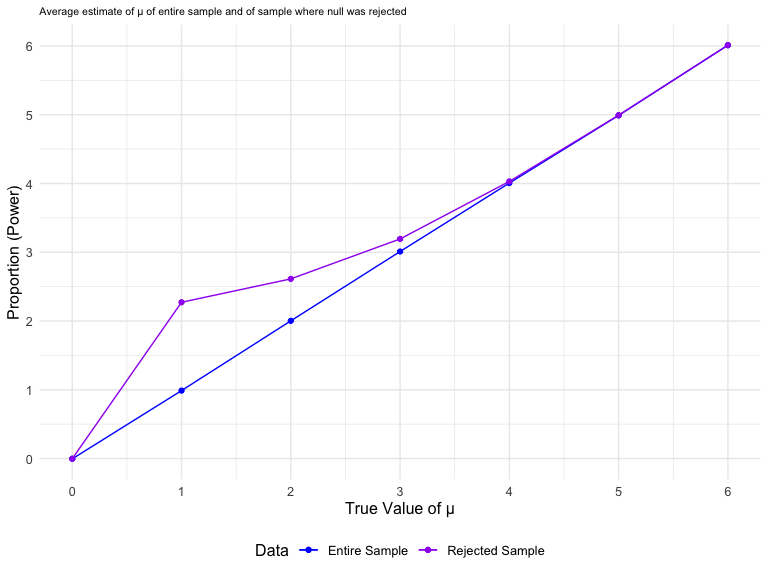
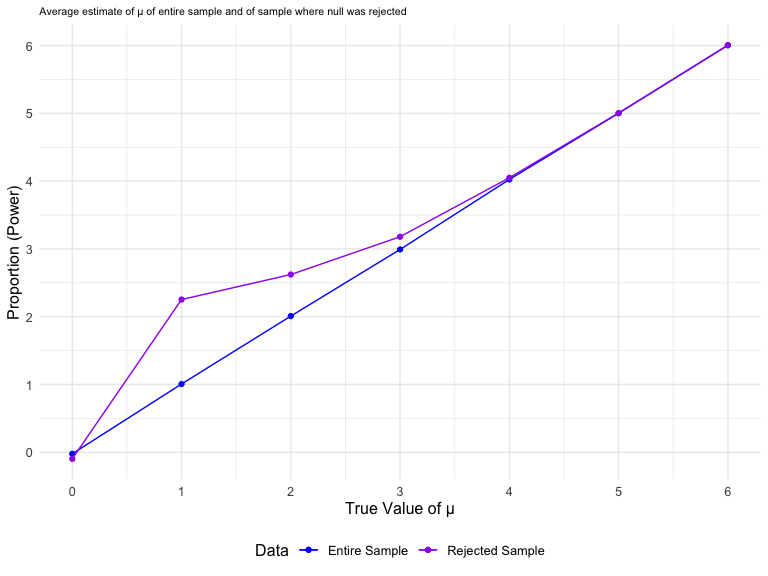
adjusted formatting to make highlight problem answers

diff --git a/p8105_hw5_pc2979.md b/p8105_hw5_pc2979.md
@@ -69,7 +69,7 @@ tidydf %>%
 ```
 
 <img src="p8105_hw5_pc2979_files/figure-gfm/unnamed-chunk-4-1.png" width="90%" />
-The graph suggests that outcomes are highly correlated within each
+\* The graph suggests that outcomes are highly correlated within each
 group - the outcome of those in the experimental arm are more likely to
 trend upward over time while the outcome of those in the control arm
 vary over time.
@@ -99,13 +99,13 @@ post <- read_csv("https://raw.github.com/washingtonpost/data-homicides/master/ho
     ## ℹ Use `spec()` to retrieve the full column specification for this data.
     ## ℹ Specify the column types or set `show_col_types = FALSE` to quiet this message.
 
-There are 52179 observations and 13 variables in the `post` dataset.
-Each row is a single reported homicide by reported date, victim’s name,
-race, and age, reported city and state, latitude and longitude of
-report, and status of the case.
+- There are 52179 observations and 13 variables in the `post` dataset.
+  Each row is a single reported homicide by reported date, victim’s
+  name, race, and age, reported city and state, latitude and longitude
+  of report, and status of the case.
 
-A total of 52179 cases across 28 states in 50 cities are found in the
-dataset.
+- A total of 52179 cases across 28 states in 50 cities are found in the
+  dataset.
 
 Create functions calculating number of total homicides, number of
 unsolved homicides, and number of solved homicides for each city. `Map`
@@ -258,20 +258,20 @@ sim_mu_0
     ## # A tibble: 5,000 × 4
     ##       mu iteration estimate p.value
     ##    <dbl>     <int>    <dbl>   <dbl>
-    ##  1     0         1   -1.36   0.0913
-    ##  2     0         2    2.19   0.0343
-    ##  3     0         3    0.922  0.193 
-    ##  4     0         4   -1.37   0.153 
-    ##  5     0         5   -1.01   0.220 
-    ##  6     0         6   -1.14   0.154 
-    ##  7     0         7   -0.325  0.745 
-    ##  8     0         8    0.893  0.342 
-    ##  9     0         9   -0.944  0.297 
-    ## 10     0        10    0.238  0.793 
+    ##  1     0         1    0.390   0.716
+    ##  2     0         2    0.140   0.884
+    ##  3     0         3   -0.113   0.917
+    ##  4     0         4   -0.803   0.324
+    ##  5     0         5   -1.26    0.114
+    ##  6     0         6    0.476   0.640
+    ##  7     0         7    1.39    0.101
+    ##  8     0         8    0.345   0.659
+    ##  9     0         9   -1.01    0.233
+    ## 10     0        10    1.32    0.157
     ## # … with 4,990 more rows
 
-Esimates and p-values from simulated estimates located in `sim_mu_0`
-with a total of 5000 observations.
+- Esimates and p-values from simulated estimates located in `sim_mu_0`
+  with a total of 5000 observations.
 
 Repeat the above for μ={1,2,3,4,5,6}, and complete the following:
 
@@ -292,16 +292,16 @@ sim_mu_1
     ## # A tibble: 30,000 × 4
     ##       mu iteration estimate p.value
     ##    <int>     <int>    <dbl>   <dbl>
-    ##  1     1         1    1.15  0.143  
-    ##  2     1         2    0.198 0.797  
-    ##  3     1         3    0.430 0.677  
-    ##  4     1         4    1.13  0.260  
-    ##  5     1         5    2.99  0.00711
-    ##  6     1         6    0.482 0.632  
-    ##  7     1         7    2.03  0.0743 
-    ##  8     1         8    1.52  0.136  
-    ##  9     1         9    1.08  0.234  
-    ## 10     1        10    1.17  0.209  
+    ##  1     1         1   1.15    0.227 
+    ##  2     1         2   1.85    0.0302
+    ##  3     1         3   0.232   0.791 
+    ##  4     1         4   0.917   0.296 
+    ##  5     1         5   1.18    0.279 
+    ##  6     1         6   1.05    0.215 
+    ##  7     1         7   1.40    0.0926
+    ##  8     1         8   1.73    0.127 
+    ##  9     1         9   0.0697  0.939 
+    ## 10     1        10   0.770   0.466 
     ## # … with 29,990 more rows
 
 Make a plot showing the proportion of times the null was rejected (the
@@ -330,10 +330,11 @@ sim_mu %>%
 ```
 
 <img src="p8105_hw5_pc2979_files/figure-gfm/unnamed-chunk-12-1.png" width="90%" />
-Based on the graph, we see a positive relationship between effect size
-and power. Between mu = 0 and mu = 3, power increases but after mu = 3
-(or as power approaches 1), the slope of the curve tapers off,
-suggesting a decreasing effect of effect size on power.
+
+- Based on the graph, we see a positive relationship between effect size
+  and power. Between mu = 0 and mu = 3, power increases but after mu = 3
+  (or as power approaches 1), the slope of the curve tapers off,
+  suggesting a decreasing effect of effect size on power.
 
 Make a plot showing the average estimate of μ̂ on the y axis and the true
 value of μ on the x axis. Make a second plot (or overlay on the first)
@@ -372,11 +373,12 @@ ggplot(mean_est, aes(x = mu, y = mean_est, color = "Entire Sample")) +
 ```
 
 <img src="p8105_hw5_pc2979_files/figure-gfm/unnamed-chunk-13-1.png" width="90%" />
-Based on the graph, we see the average estimates of mu hat in samples
-where the null was rejected differs with the average estimate of mu hat
-among all samples between mu = 0 and mu = 4. A possible reason for the
-divergence is because of the relationship between effect size and power.
-As we see in the previous graph, power at mu = 1 is \~0.2 and \~0.55 at
-mu = 2. This suggests that at ‘lower’ effect sizes, samples are not
-correctly rejected due to low power, thus the deviation from the average
-true mu.
+
+- Based on the graph, we see the average estimates of mu hat in samples
+  where the null was rejected differs with the average estimate of mu
+  hat among all samples between mu = 0 and mu = 4. A possible reason for
+  the divergence is because of the relationship between effect size and
+  power. As we see in the previous graph, power at mu = 1 is \~0.2 and
+  \~0.55 at mu = 2. This suggests that at ‘lower’ effect sizes, samples
+  are not correctly rejected due to low power, thus the deviation from
+  the average true mu.
